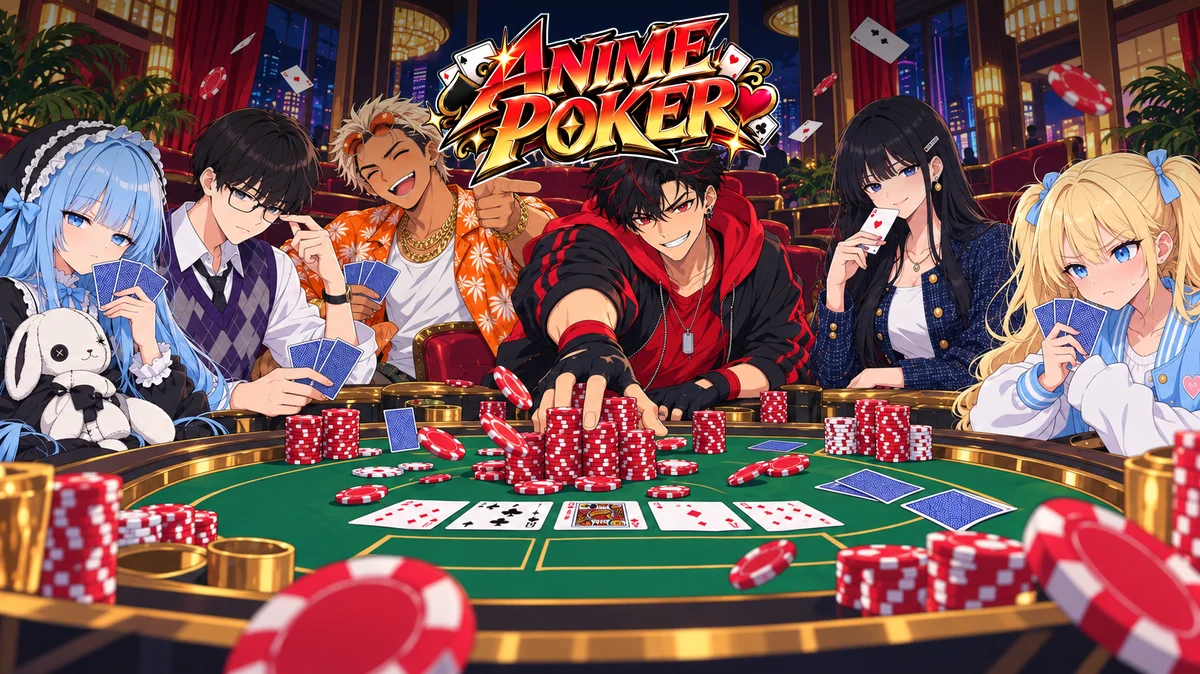
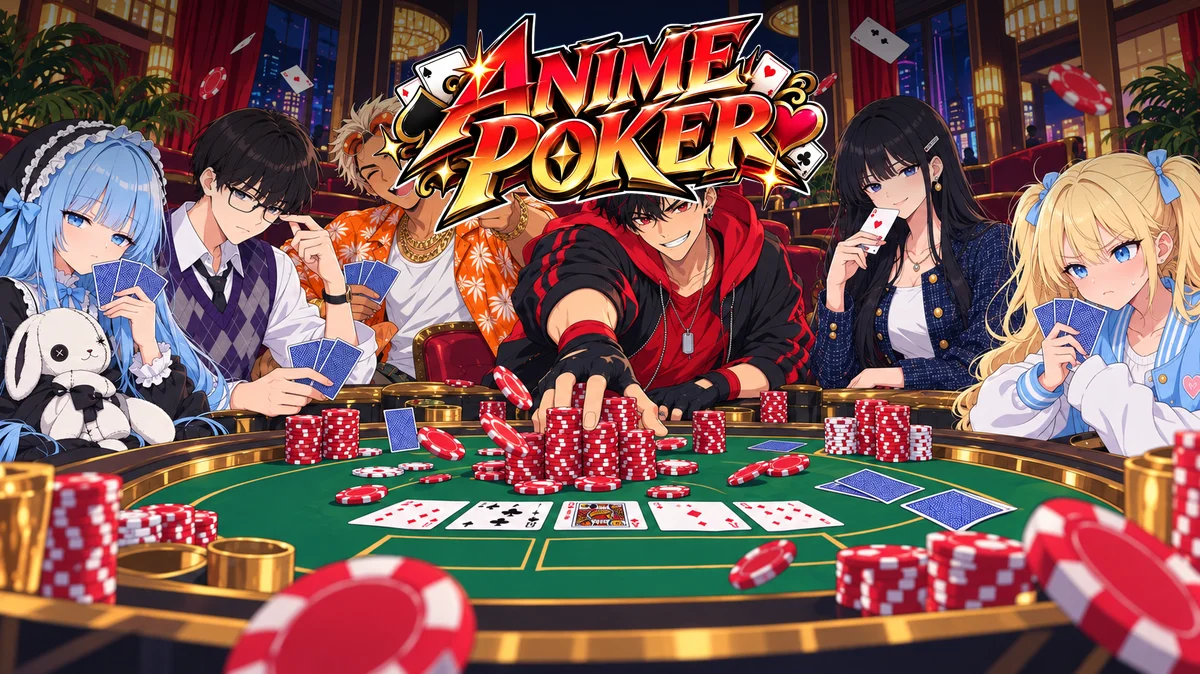
poker v1.0: BETA 뗌 · 패치노트 · 들어오면 캐릭터 인사 · 7포커 쇼다운 칩 스포 수정 · 구매 문구 · 미오 하프 음성 · 메인 로고 키움

Changed region(s): [[0.3083, 0.0, 0.7092, 0.3427]]

diff --git a/web/src/components/Poker/PokerApp.tsx b/web/src/components/Poker/PokerApp.tsx
@@ -9,11 +9,12 @@ import {
   getSound,
   onSoundChange,
   playBgm,
+  playVoice,
   refreshBgm,
   setSound,
   type SoundSettings,
 } from "@/lib/poker/sfx";
-import { fmtShort } from "@/lib/poker/rules";
+import { fmtShort, lookOf } from "@/lib/poker/rules";
 import type { RankRow, Wallet } from "@/lib/poker/types";
 import { getRank, roomOpts, subscribeWallet, watchClock } from "@/realtime/poker";
 import type { Orient } from "./layout";
@@ -146,6 +147,13 @@ export default function PokerApp({ rank }: { rank: RankRow[] | null }) {
   useEffect(() => {
     if (!tableId) playBgm(onIntro ? "bgm-intro" : "bgm-lobby");
   }, [tableId, onIntro]);
+  // 페이지에 들어와 로비가 처음 뜨면 내 캐릭터가 인사 (소리는 브라우저가 막으면 첫 터치 · 클릭 때 나옴)
+  const greeted = useRef(false);
+  useEffect(() => {
+    if (greeted.current || onIntro || tableId || !wallet) return;
+    greeted.current = true;
+    playVoice(lookOf(wallet.char, wallet.wear), "hello");
+  }, [onIntro, tableId, wallet]);
   // 포커 페이지를 떠나면 배경음악 끔 (사이트 안에서 다른 페이지로 가도 계속 나오던 것)
   useEffect(() => () => playBgm(null), []);
   const toggleFs = () => {
@@ -522,9 +530,6 @@ function Settings({ tableId }: { tableId: string | null }) {
               {roomErr && <p className="text-[0.82em] text-[#ffb3b5]">{roomErr}</p>}
             </div>
           )}
-          <p className="border-t border-white/10 pt-[0.5em] text-[0.82em] leading-relaxed text-white/40">
-            BETA
-          </p>
         </div>
       )}
     </span>
@@ -582,7 +587,7 @@ function Intro({
       {/* 로고 + 한 줄 소개 */}
       <div
         className="absolute left-1/2 z-20 flex -translate-x-1/2 flex-col items-center"
-        style={{ top: h ? "1.5%" : "5%", width: h ? "23%" : "84%" }}
+        style={{ top: h ? "2%" : "5%", width: h ? "29%" : "84%" }}
       >
         {}
         <img
@@ -599,9 +604,6 @@ function Intro({
       >
         <span className="pk-intro-tag whitespace-nowrap">TEXAS HOLD&apos;EM</span>
         <span className="pk-intro-tag whitespace-nowrap">SEVEN POKER</span>
-        <span className="rounded-[4px] bg-[var(--pk-danger)] px-[0.5em] text-[0.7em] leading-[1.7em] font-extrabold tracking-wider">
-          BETA
-        </span>
       </div>
       {/* 시작 칸 (테이블 위) */}
       <div

diff --git a/web/src/components/Poker/TableView.tsx b/web/src/components/Poker/TableView.tsx
@@ -1044,6 +1044,9 @@ export default function TableView({
   /** 결과 (판은 끝났지만 패 까기 연출 중이면 아직 숨김) */
   const rawRes = hand?.result ?? null;
   const res = revealDone ? rawRes : null;
+  /** 보여 줄 보유 칩: 패 까기 연출 중엔 딴 돈을 빼고 (결과보다 칩이 먼저 올라 스포일러가 되지 않게) */
+  const stackShown = (seat: number, stack: number) =>
+    rawRes && !revealDone ? stack - (rawRes.won[seat] ?? 0) : stack;
   const winners = res ? Object.keys(res.won).map(Number) : [];
   /**
    * 쇼다운에서 족보가 제일 센 사람(같으면 여럿). 사이드 팟을 따 간 두 번째 사람은 돈은 받아도 이긴 동작은 아님.
@@ -1491,7 +1494,7 @@ export default function TableView({
                       ) : s.status === "out" && !live ? (
                         <span className="text-white/45">자리 비움</span>
                       ) : (
-                        <Money won={s.stack} />
+                        <Money won={stackShown(i, s.stack)} />
                       )}
                     </div>
                     {s.away ? (
@@ -1754,7 +1757,7 @@ export default function TableView({
         {/* 내 자리 */}
         {me && (
           <HeroArea
-            me={me}
+            me={{ ...me, stack: stackShown(mySeat, me.stack) }}
             p={hand?.players[mySeat] ?? null}
             hv={hv}
             sv={sv}
@@ -2145,7 +2148,7 @@ export default function TableView({
                 </div>
                 <div className="flex w-full items-center justify-between text-[0.78em] text-white/60">
                   <span>보유 칩</span>
-                  <Money won={s.stack} className="text-[1.15em] text-[#ffd84a]" />
+                  <Money won={stackShown(statSeat, s.stack)} className="text-[1.15em] text-[#ffd84a]" />
                 </div>
                 {/* 강퇴 투표: 남의 자리 · 내가 이 방에서 3판 이상 쳤을 때. 3표면 강퇴, 표는 10판 지나면 사라짐 */}
                 {me && s.seat !== mySeat && (

diff --git a/web/src/components/Poker/PatchNotes.tsx b/web/src/components/Poker/PatchNotes.tsx
@@ -13,6 +13,24 @@ export interface Patch {
 
 export const PATCHES: Patch[] = [
   {
+    ver: "v1.0",
+    name: "정식 오픈 · 새 캐릭터 미오",
+    date: "2026.10.10",
+    lines: [
+      "BETA 딱지를 뗐어요 — 정식 버전이에요",
+      "새 캐릭터 「미오」 — 상점 「캐릭터」 탭에서 칩 5억에 구매해요. 목소리 · 로비 대기 영상 · 표정 · 이모티콘 전부 새로",
+      "상점이 스킨 · 캐릭터 · 옷장 탭으로 나뉘었어요. 스킨은 캐릭터별로 골라 볼 수 있어요",
+      "새 스킨 「한여름의 연서」(칩 10억) — 스킨을 입으면 로비에서 터치 반응이 있어요",
+      "캐릭터 선택창을 새로 — 프로필을 눌러 고르고, 나이 · 생일 · 별자리 · 소개가 보여요. 아직 안 산 캐릭터는 자물쇠, 누르면 상점으로",
+      "메인 화면을 새로 — 여섯 캐릭터가 포커 치는 움직이는 그림 (PC 가로 · 폰 세로 따로)",
+      "들어오면 내 캐릭터가 인사해요",
+      "마이페이지 디자인을 새로 — 요약 · 게임별 승률 막대 · 날짜별 최근 판",
+      "7포커 쇼다운에서 패를 다 까기 전에 이긴 사람 칩이 먼저 올라가던 것 수정",
+      "폰(전체화면 아님) 7포커: 남의 카드가 화면 밖으로 나가거나 겹쳐 안 보이던 것 개선, 건 돈이 카드를 가리지 않게",
+      "봇이 잡패로 올인을 받아 주던 일이 줄었어요",
+    ],
+  },
+  {
     ver: "v0.5 BETA",
     name: "타짜의 길 · 상점 오픈",
     date: "2026.10.09",

diff --git a/web/src/components/Poker/Shop.tsx b/web/src/components/Poker/Shop.tsx
@@ -288,7 +288,7 @@ export default function Shop({
                         {CHARS[c].name}
                       </span>
                       {c === wallet.char && (
-                        <span className="text-[0.72em] text-white/45">지금 캐릭터</span>
+                        <span className="text-[0.72em] text-white/45">현재 캐릭터</span>
                       )}
                     </div>
                     <div className="grid grid-cols-3 gap-[0.45em] sm:grid-cols-4">
@@ -385,7 +385,7 @@ function CharShop({
                   onClick={() => void run(`pick:${c}`, async () => void (await setChar(c)))}
                   className="pk-btn pk-btn-ghost py-[0.55em] text-[0.88em]"
                 >
-                  {wallet.char === c ? "지금 캐릭터" : `${info.name}(으)로 바꾸기`}
+                  {wallet.char === c ? "현재 캐릭터" : `${info.name}(으)로 바꾸기`}
                 </button>
               ) : asking ? (
                 <div className="flex gap-[0.4em]">
@@ -404,7 +404,7 @@ function CharShop({
                         await buyChar(c);
                         setConfirm(null);
                         setMsg({
-                          text: `${info.name}을(를) 데려왔어요! 지금 캐릭터로 바뀌었어요.`,
+                          text: `${info.name}을(를) 구매했어요! 현재 캐릭터로 바뀌었어요.`,
                           ok: true,
                         });
                         playVoice(c, "select");

diff --git a/web/src/components/Info/AnimePokerProject.tsx b/web/src/components/Info/AnimePokerProject.tsx
@@ -12,7 +12,7 @@ const STATS = [
   { value: "2종목", label: "홀덤 6인 · 7포커 5인" },
   { value: "6명", label: "애니풍 캐릭터" },
   { value: "3단계", label: "동네판 · 하우스 · VIP룸" },
-  { value: "BETA", label: "2026.10" },
+  { value: "v1.0", label: "2026.10" },
 ];
 
 const STACK: { group: string; items: string[] }[] = [
@@ -93,7 +93,7 @@ export default function AnimePokerProject() {
       </p>
 
       <div className="mt-5 flex flex-wrap items-center gap-2 font-mono text-xs">
-        <span className="rounded-full border border-white/10 px-3 py-1 text-white/50">2026.10 – BETA</span>
+        <span className="rounded-full border border-white/10 px-3 py-1 text-white/50">2026.10 – v1.0</span>
         <Link href="/games/poker/" className="rounded-full bg-[#6C63FF] px-4 py-1 text-white transition-colors hover:bg-[#5b52f0]">
           플레이
         </Link>

diff --git a/web/src/data/gameGuides.tsx b/web/src/data/gameGuides.tsx
@@ -1313,7 +1313,7 @@ export const POKER_GUIDE: GuideDoc = {
       title: "캐릭터 · 방",
       items: [
         <>
-          <B>진우 · 연서 · 태양 · 정민 · 에이미 · 미오</B> 여섯 명 중 하나를 골라요(겹쳐도 돼요). 로비의 「캐릭터 변경」에서 바꿀 수 있어요. <B>미오</B>는 상점 「캐릭터」 탭에서 칩으로 데려와야 써요.
+          <B>진우 · 연서 · 태양 · 정민 · 에이미 · 미오</B> 여섯 명 중 하나를 골라요(겹쳐도 돼요). 로비의 「캐릭터 변경」에서 바꿀 수 있어요. <B>미오</B>는 상점 「캐릭터」 탭에서 칩으로 구매해야 써요.
         </>,
         <>
           방에는 다른 유저들이 수시로 들어오고 나가요. <B>방 만들기</B>에서 "바로 입장 허용"을 끄면 그 방을 직접 골라 들어온 사람끼리만 쳐요.

diff --git a/web/src/components/Poker/Lobby.tsx b/web/src/components/Poker/Lobby.tsx
@@ -141,9 +141,6 @@ export default function Lobby({
         draggable={false}
         style={{ height: H ? bar - 8 : bar - 14, width: "auto" }}
       />
-      <span className="rounded-[4px] bg-[var(--pk-danger)] px-[0.45em] text-[0.62em] leading-[1.6em] font-extrabold tracking-wider">
-        BETA
-      </span>
       <button
         type="button"
         onClick={() => setNotes(true)}
@@ -899,7 +896,7 @@ function CharSelect({
           onClick={onShop}
           className="pk-btn pk-btn-gold py-[0.6em] text-[0.92em]"
         >
-          상점에서 {info.name} 데려오기 · 칩 {fmtEok(price)}
+          상점에서 {info.name} 구매하기 · 칩 {fmtEok(price)}
         </button>
       ) : (
         <button
